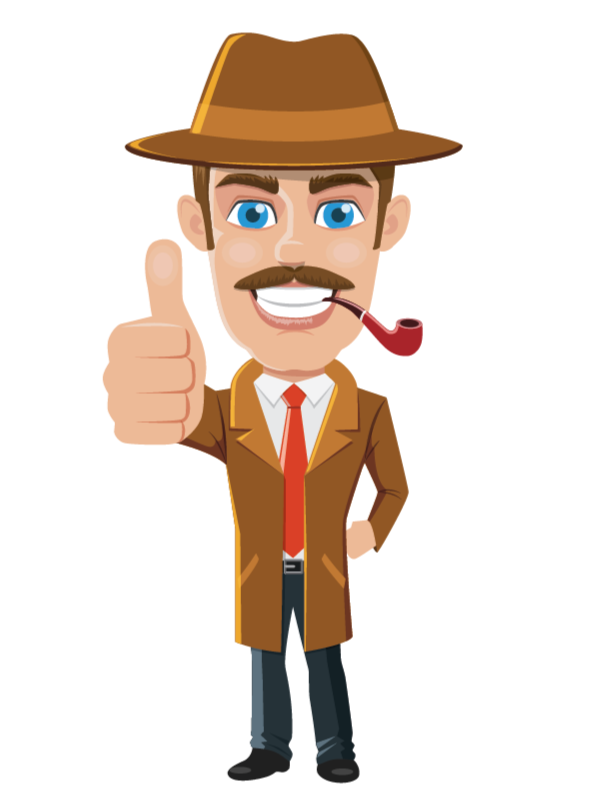
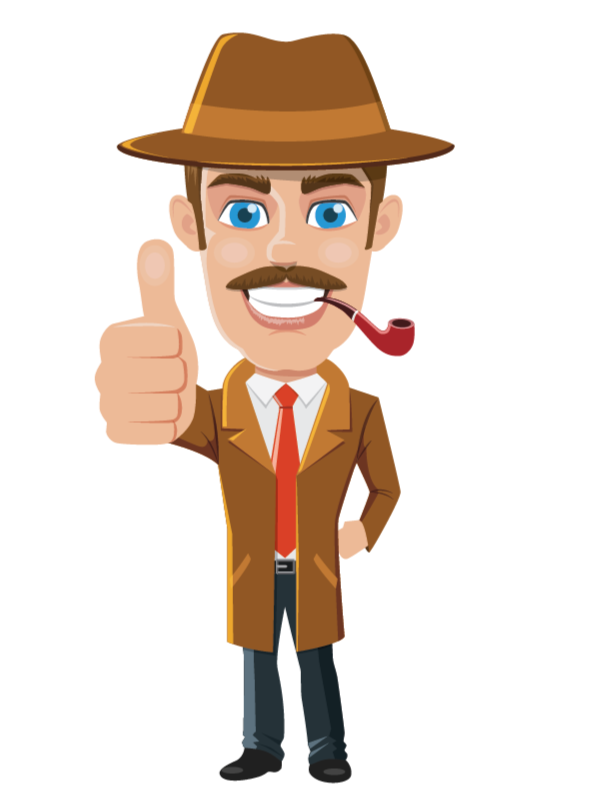
changed images in MainGame.js

diff --git a/src/components/pages/MainGame.js b/src/components/pages/MainGame.js
@@ -3,6 +3,7 @@ import {RandomQ} from "./RandomQ";
 import goodAnswer from '../../images/goodAnswer.png';
 import badAnswer from '../../images/badAnswer.png';
 import letsPlay from '../../images/letsPlay.png';
+import addWords from '../../images/addWords.png';
 
 
 export function MainGame(){
@@ -11,7 +12,7 @@ export function MainGame(){
 
     useEffect(() => {
         if (correct === null) {
-            setImage(letsPlay);
+            setImage(addWords);
         } else if (correct) {
             setImage(goodAnswer);
         } else {

diff --git a/src/scss/App.scss b/src/scss/App.scss
@@ -7,6 +7,9 @@
 /////////////////////
 //tutaj content -> start - howToPlay//
 /////////////////////
+.mainGame{
+  width:100%
+}
 
 .mainGame_description{
   display: flex;
